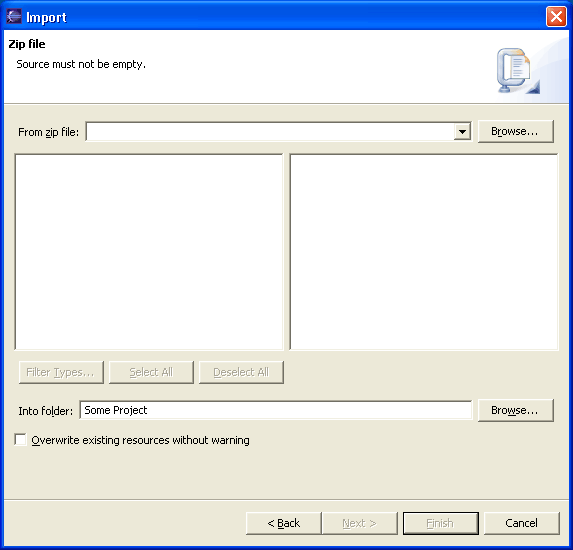
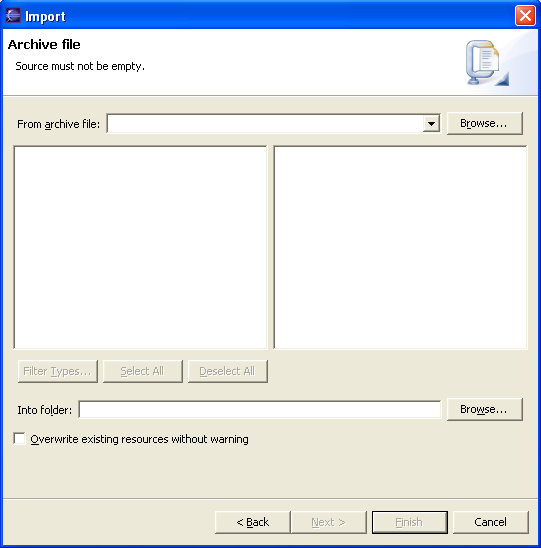
Updated terminology change from ZIP file to Archive File

Changed region(s): [[0.0, 0.0, 1.0, 1.0]]

diff --git a/bundles/org.eclipse.platform.doc.user/reference/ref-70.htm b/bundles/org.eclipse.platform.doc.user/reference/ref-70.htm
@@ -159,17 +159,17 @@ resources being imported. </P>
 </DIV>
 
 <DIV CLASS="Topic">
-<h2>
-ZIP File</h2>
-<p CLASS="Head">
-If you choose this option, you will import files from an archive (ZIP) file.</p>
-  <P>&nbsp;<img src="../images/Image263_import_zip.png" alt="ZIP file import wizard page" border="0" > 
+  <h2> Archive File</h2>
+  <p CLASS="Head"> If you choose this option, you will import files from an archive 
+    file.</p>
+  <P>&nbsp;<img src="../images/Image263_import_zip.png" alt="Archive file import wizard page" border="0" > 
   </P>
 <P>&nbsp;
 </P>
 <TABLE BORDER="1" cellspacing="0">
 <CAPTION>
-Import - Zip File Options</CAPTION>
+    Import - Archive File Options 
+    </CAPTION>
 <THEAD>
 <TR>
 <TH ROWSPAN="1" COLSPAN="1">
@@ -189,8 +189,7 @@ Default</P>
 <TBODY>
 <TR>
 <TD ROWSPAN="1" COLSPAN="1" valign="top" align="left">
-<P CLASS="Para">
-ZIP File</P>
+<P CLASS="Para"> Archive File</P>
 </TD>
 <TD ROWSPAN="1" COLSPAN="1" valign="top" align="left">
 <P CLASS="Para">
